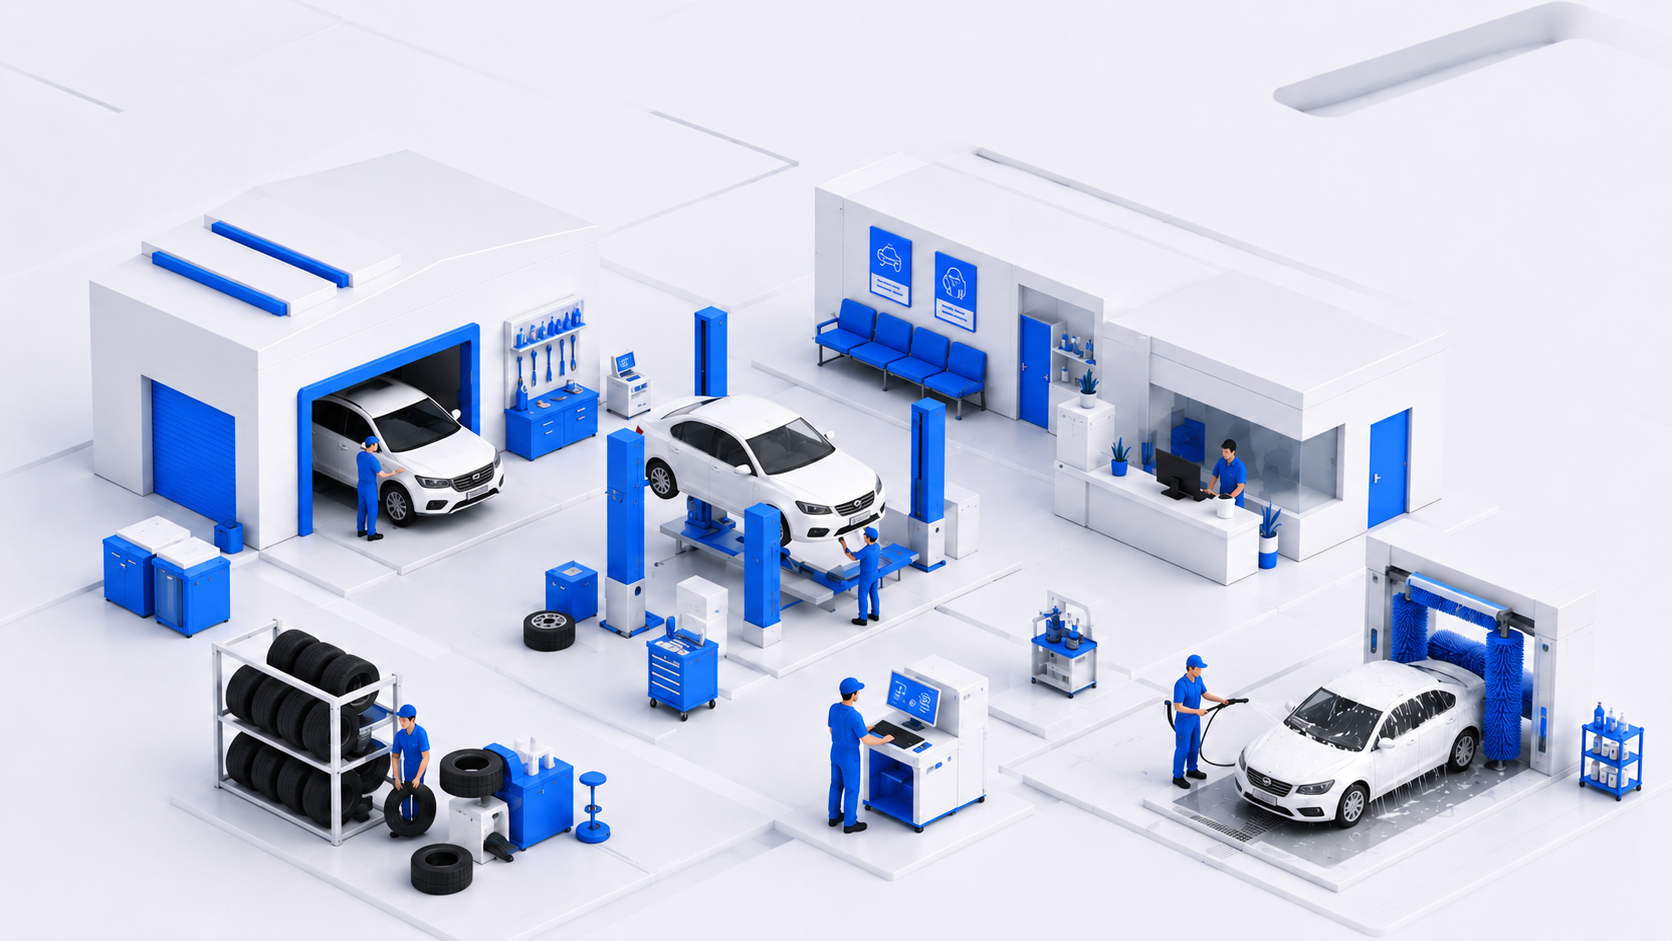
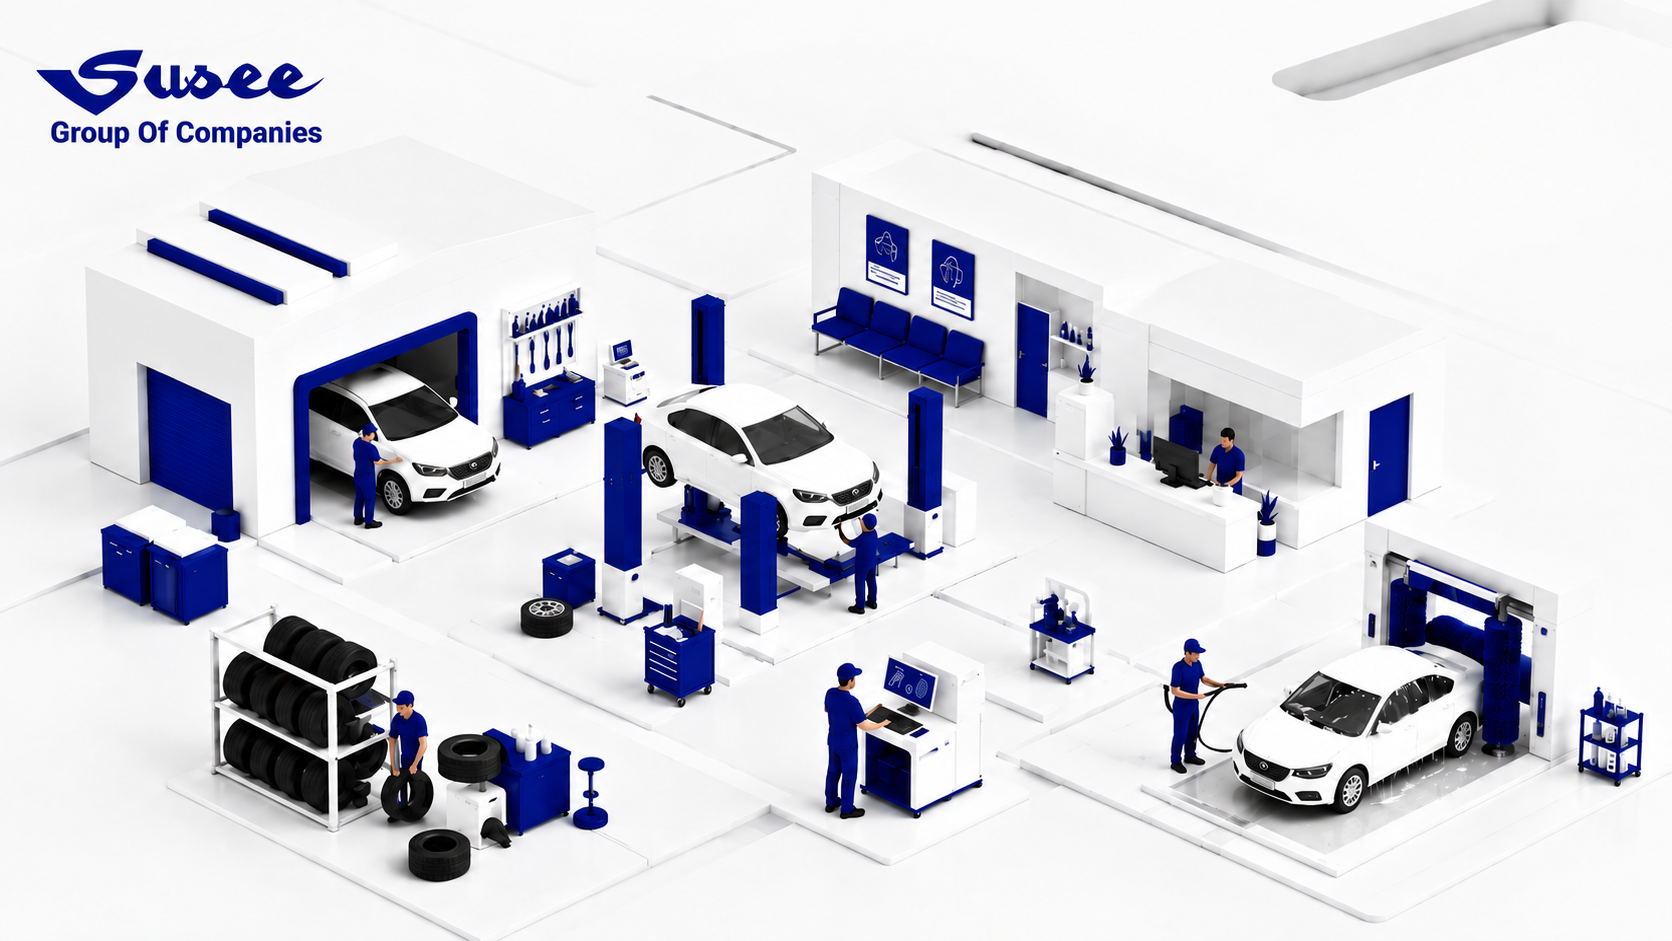
work done on 22.7.2026 feedback points

diff --git a/src/layouts/AuthLayout/AuthLayout.jsx b/src/layouts/AuthLayout/AuthLayout.jsx
@@ -1,45 +1,54 @@
-import { Outlet } from 'react-router-dom';
-import { Box, Typography } from '@mui/material';
-import loginPageImage from '../../assets/img/login-page-image.png';
+import { Outlet } from "react-router-dom";
+import { Box, Typography } from "@mui/material";
+import loginPageImage from "../../assets/img/login-page-image.png";
 
 export default function AuthLayout() {
   return (
     <Box
       sx={{
-        display: 'flex',
-        justifyContent: { xs: 'center', md: 'flex-end' },
-        minHeight: '100vh',
-        bgcolor: '#EDECF2',
+        display: "flex",
+        justifyContent: { xs: "center", md: "flex-end" },
+        minHeight: "100vh",
+        bgcolor: "#F9F9F9",
         backgroundImage: `url(${loginPageImage})`,
-        backgroundSize: { xs: 'cover', lg: 'contain' },
-        backgroundPosition: 'left center',
-        backgroundRepeat: 'no-repeat',
+        backgroundSize: { xs: "cover", md: "contain" },
+        backgroundPosition: { xs: "center", md: "left 5% center" },
+        backgroundRepeat: "no-repeat",
       }}
     >
       <Box
         sx={{
-          width: { xs: '100%', md: '50%' },
-          minHeight: '100vh',
-          display: 'flex',
-          flexDirection: 'column',
-          alignItems: 'center',
-          justifyContent: 'center',
+          width: { xs: "100%", md: "50%", lg: "40%" },
+          minHeight: "100vh",
+          display: "flex",
+          flexDirection: "column",
+          alignItems: "center",
+          justifyContent: "center",
           p: 4,
         }}
       >
         <Box
           sx={{
-            width: '100%',
+            width: "100%",
             maxWidth: 500,
-            bgcolor: 'background.paper',
-            borderRadius: '25px',
+            bgcolor: "background.paper",
+            borderRadius: "25px",
             p: { xs: 4, md: 6 },
-            boxShadow: 'rgba(100, 100, 111, 0.2) 0px 7px 29px 0px',
+            boxShadow: "rgba(100, 100, 111, 0.2) 0px 7px 29px 0px",
           }}
         >
           <Outlet />
-          <Typography sx={{ mt: 4, color: '#2563eb', fontSize: '0.8rem', fontWeight: 500, textAlign: 'center' }}>
-            &copy; {new Date().getFullYear()} DVSOS. All rights reserved.
+          <Typography
+            sx={{
+              mt: 4,
+              color: "#2563eb",
+              fontSize: "0.8rem",
+              fontWeight: 500,
+              textAlign: "center",
+            }}
+          >
+            &copy; {new Date().getFullYear()} Susee Group Of Companies. All
+            rights reserved.
           </Typography>
         </Box>
       </Box>

diff --git a/src/components/shared/Sidebar/index.jsx b/src/components/shared/Sidebar/index.jsx
@@ -48,6 +48,7 @@ import {
 import useAuthStore from "../../../store/useAuthStore";
 import useUIStore from "../../../store/useUIStore";
 import { buildSidebarMenus } from "../../../utils/authAccess";
+import logoImg from "../../../assets/img/logo.jpg";
 
 const ICON_MAP = {
   AlertCircle,
@@ -381,36 +382,25 @@ export default function Sidebar() {
           height: 64,
           display: "flex",
           alignItems: "center",
-          px: effectiveCollapsed && !isMobile ? 0 : 3,
-          justifyContent:
-            effectiveCollapsed && !isMobile ? "center" : "flex-start",
+          justifyContent: "center",
+          px: 0,
+          width: "100%",
+          overflow: "hidden",
           flexShrink: 0,
         }}
       >
         <Box
+          component="img"
+          src={logoImg}
+          alt="Logo"
           sx={{
-            width: 32,
-            height: 32,
-            borderRadius: 0,
-            bgcolor: "primary.main",
-            color: "white",
-            display: "flex",
-            alignItems: "center",
-            justifyContent: "center",
-            mr: effectiveCollapsed && !isMobile ? 0 : 1.5,
+            width: "100%",
+            height: "100%",
+            maxHeight: "64px",
+            maxWidth: "100%",
+            transition: "all 0.2s ease-in-out",
           }}
-        >
-          <Car size={18} />
-        </Box>
-        {(!effectiveCollapsed || isMobile) && (
-          <Typography
-            variant="h6"
-            fontWeight={700}
-            sx={{ letterSpacing: "-0.02em", color: "text.primary" }}
-          >
-            DVSOS
-          </Typography>
-        )}
+        />
       </Box>
 
       <Divider />

diff --git a/src/pages/Dashboard/MDDashboard.jsx b/src/pages/Dashboard/MDDashboard.jsx
@@ -52,37 +52,6 @@ export default function MDDashboard() {
 
   return (
     <Box sx={{ p: { xs: 2, md: 4 }, bgcolor: '#F0F4FF', minHeight: '100%' }}>
-      <Box sx={{
-        display: 'flex',
-        flexDirection: { xs: 'column', sm: 'row' },
-        gap: { xs: 2, sm: 0 },
-        justifyContent: 'space-between',
-        alignItems: { xs: 'flex-start', sm: 'center' }, mb: 3,
-        bgcolor: '#FFFFFF', p: 2, borderRadius: 3, boxShadow: '0 2px 10px rgba(0,0,0,0.02)',
-        border: '1px solid #E5E7EB'
-      }}>
-        <Box sx={{ display: 'flex', alignItems: 'center', gap: 2 }}>
-          <Box sx={{ width: 44, height: 44, borderRadius: 2, bgcolor: '#FEE2E2', display: 'flex', alignItems: 'center', justifyContent: 'center', color: '#EF4444' }}>
-            <Briefcase size={22} />
-          </Box>
-          <Box>
-            <Typography variant="h6" fontWeight={800} color="#000" sx={{ lineHeight: 1.2 }}>
-              Managing Director (MD)
-            </Typography>
-          </Box>
-        </Box>
-        <Select
-          size="small"
-          value={timeRange}
-          onChange={(e) => setTimeRange(e.target.value)}
-          sx={{ minWidth: 120, borderRadius: 2, bgcolor: '#FFFFFF' }}
-        >
-          <MenuItem value="Today">Today</MenuItem>
-          <MenuItem value="This Week">This Week</MenuItem>
-          <MenuItem value="This Month">This Month</MenuItem>
-          <MenuItem value="All Time">All Time</MenuItem>
-        </Select>
-      </Box>
 
       {isLoading ? (
         <Box sx={{ display: 'flex', justifyContent: 'center', alignItems: 'center', height: '60vh' }}>

diff --git a/src/pages/Dashboard/AdminDashboard.jsx b/src/pages/Dashboard/AdminDashboard.jsx
@@ -1,6 +1,6 @@
 import { Grid, Box, Typography, Card, CardContent, Chip } from '@mui/material';
 import {
-  Users, Crown, ShieldCheck, Wrench, ClipboardList
+  Users, ShieldCheck, Wrench, ClipboardList
 } from 'lucide-react';
 import { useNavigate } from 'react-router-dom';
 import { ROUTES } from '../../config/routes';
@@ -116,21 +116,6 @@ export default function AdminDashboard() {
 
   return (
     <Box sx={{ p: { xs: 2, md: 4 }, bgcolor: '#f0f4ff', minHeight: '100%' }}>
-      <Box sx={{ display: 'flex', flexDirection: { xs: 'column', sm: 'row' }, gap: { xs: 2, sm: 0 }, justifyContent: 'space-between', alignItems: { xs: 'flex-start', sm: 'center' }, mb: 4, bgcolor: '#FFFFFF', p: 3, borderRadius: 3, boxShadow: '0 2px 10px rgba(0,0,0,0.02)', border: '1px solid #E5E7EB' }}>
-        <Box sx={{ display: 'flex', alignItems: 'center', gap: 2 }}>
-          <Box sx={{ width: 48, height: 48, borderRadius: 2, bgcolor: 'rgba(45, 212, 191, 0.15)', display: 'flex', alignItems: 'center', justifyContent: 'center', color: '#1a434d' }}>
-            <Crown size={24} />
-          </Box>
-          <Box>
-            <Typography variant="h5" fontWeight={800} color="#000" sx={{ lineHeight: 1.2 }}>
-              Super Admin Dashboard
-            </Typography>
-            <Typography variant="body2" color="text.secondary" sx={{ mt: 0.5 }}>
-              Overview of platform users, roles, and service masters
-            </Typography>
-          </Box>
-        </Box>
-      </Box>
 
       {/* KPI Cards Row */}
       <Grid container spacing={3} sx={{ mb: 4 }}>

diff --git a/src/lib/theme.js b/src/lib/theme.js
@@ -3,17 +3,17 @@ import { createTheme } from '@mui/material/styles';
 const theme = createTheme({
   palette: {
     primary: {
-      main: '#2563eb', // --blue
-      light: '#3b82f6', // --blue-light
+      main: '#000F7E', // --blue
+      light: '#000F7E', // --blue-light
       dark: '#1e3a8a', // --navy
     },
     secondary: {
       main: '#0891b2', // --cyan
-      light: '#3b82f6',
+      light: '#000F7E',
       dark: '#1e3a8a',
     },
     success: {
-      main: '#2563eb', // --success
+      main: '#000F7E', // --success
     },
     error: {
       main: '#dc2626', // --danger
@@ -22,7 +22,7 @@ const theme = createTheme({
       main: '#d97706', // --warn
     },
     info: {
-      main: '#2563eb', // --blue
+      main: '#000F7E', // --blue
     },
     background: {
       default: '#f0f4ff', // --bg
@@ -62,7 +62,7 @@ const theme = createTheme({
           transition: 'all 0.2s cubic-bezier(0.4, 0, 0.2, 1)',
         },
         containedPrimary: {
-          background: 'linear-gradient(135deg, #2563eb 0%, #3b82f6 100%)',
+          background: 'linear-gradient(135deg, #000F7E 0%, #000F7E 100%)',
           boxShadow: '0 1px 3px rgba(37, 99, 235, 0.08), 0 1px 2px rgba(0, 0, 0, 0.06)',
           '&:hover': {
             background: '#1e3a8a',
@@ -111,7 +111,7 @@ const theme = createTheme({
               borderColor: '#c3d4ee', // --border2
             },
             '&.Mui-focused fieldset': {
-              borderColor: '#2563eb', // --blue
+              borderColor: '#000F7E', // --blue
               borderWidth: '1px',
             },
             '&.Mui-focused': {
@@ -133,7 +133,7 @@ const theme = createTheme({
             borderColor: '#c3d4ee', // --border2
           },
           '&.Mui-focused .MuiOutlinedInput-notchedOutline': {
-            borderColor: '#2563eb', // --blue
+            borderColor: '#000F7E', // --blue
             borderWidth: '1px',
           },
           '&.Mui-focused': {

diff --git a/src/pages/Auth/Login.jsx b/src/pages/Auth/Login.jsx
@@ -67,8 +67,16 @@ export default function Login() {
     <Box>
       {/* Header */}
       <Box sx={{ textAlign: 'center', mb: 4 }}>
-        <Typography variant="h4" sx={{ fontWeight: 700, color: 'text.primary', mb: 1 }}>
-          DVSOS
+        <Typography
+          variant="h4"
+          sx={{
+            fontWeight: 700,
+            letterSpacing: '1px',
+            color: 'primary.main',
+            mb: 1.5,
+          }}
+        >
+          SUSEE
         </Typography>
         <Typography variant="body2" color="text.secondary">
           Sign in to your account to continue

diff --git a/src/components/common/DataTable/index.jsx b/src/components/common/DataTable/index.jsx
@@ -154,10 +154,13 @@ export default function DataTable({
                   <TableRow
                     key={row.id || index}
                     onClick={() => onRowClick && onRowClick(row)}
-                    onDoubleClick={() => onRowDoubleClick && onRowDoubleClick(row)}
+                    onDoubleClick={() =>
+                      onRowDoubleClick && onRowDoubleClick(row)
+                    }
                     sx={{
                       bgcolor: "#FFFFFF",
-                      cursor: (onRowClick || onRowDoubleClick) ? "pointer" : "default",
+                      cursor:
+                        onRowClick || onRowDoubleClick ? "pointer" : "default",
                       transition: "background-color 0.2s",
                     }}
                   >
@@ -260,12 +263,12 @@ export default function DataTable({
                   },
                 },
                 "& .Mui-selected": {
-                  bgcolor: "#2563eb!important",
+                  bgcolor: "#000f7e!important",
                   color: "#FFFFFF !important",
                   border: "none",
                   boxShadow: "0 2px 4px rgba(37, 99, 235, 0.2)",
                   "&:hover": {
-                    bgcolor: "#2563eb !important",
+                    bgcolor: "#000f7e !important",
                   },
                 },
               }}

diff --git a/src/pages/Locations/LocationList.jsx b/src/pages/Locations/LocationList.jsx
@@ -110,11 +110,6 @@ export default function LocationList() {
 
   const columns = [
     {
-      header: 'Location ID',
-      accessor: 'locationCode',
-      render: (row) => <Typography variant="body2" fontWeight={600} color="primary.main">{row.locationCode}</Typography>,
-    },
-    {
       header: 'Location Name',
       accessor: 'locationName',
       render: (row) => (

diff --git a/src/pages/Masters/ServiceCenterList.jsx b/src/pages/Masters/ServiceCenterList.jsx
@@ -100,11 +100,6 @@ export default function ServiceCenterList() {
 
   const columns = [
     {
-      header: 'Code',
-      accessor: 'serviceCenterCode',
-      render: (row) => <Typography variant="body2" fontWeight={600}>{row.serviceCenterCode}</Typography>
-    },
-    {
       header: 'Service Center Name',
       accessor: 'serviceCenterName',
       render: (row) => <Typography variant="body2" fontWeight={600}>{row.serviceCenterName}</Typography>

diff --git a/src/pages/Masters/ServiceCenterView.jsx b/src/pages/Masters/ServiceCenterView.jsx
@@ -137,11 +137,6 @@ export default function ServiceCenterView() {
                 value={serviceCenter?.serviceCenterName || '-'}
               />
               <DetailRow
-                icon={Tag}
-                label="Service Center Code"
-                value={serviceCenter?.serviceCenterCode || '-'}
-              />
-              <DetailRow
                 icon={Hash}
                 label="GST Number"
                 value={serviceCenter?.gstNumber || '-'}

diff --git a/src/components/shared/PageHeader/PageHeader.module.css b/src/components/shared/PageHeader/PageHeader.module.css
@@ -21,7 +21,7 @@
 .accentBar {
   width: 5px;
   height: 34px;
-  background-color: #2563eb;
+  background-color: #000f7e;
   border-radius: 4px;
   box-shadow: 0 2px 8px rgba(37, 99, 235, 0.25);
 }

diff --git a/src/styles/variables.css b/src/styles/variables.css
@@ -9,7 +9,7 @@
   --border: #dce6f5;
   --border2: #c3d4ee;
 
-  --blue: #2563eb;
+  --blue: #000F7E;
   --blue-light: #3b82f6;
   --blue-pale: #eff6ff;
   --blue-mid: #bfdbfe;